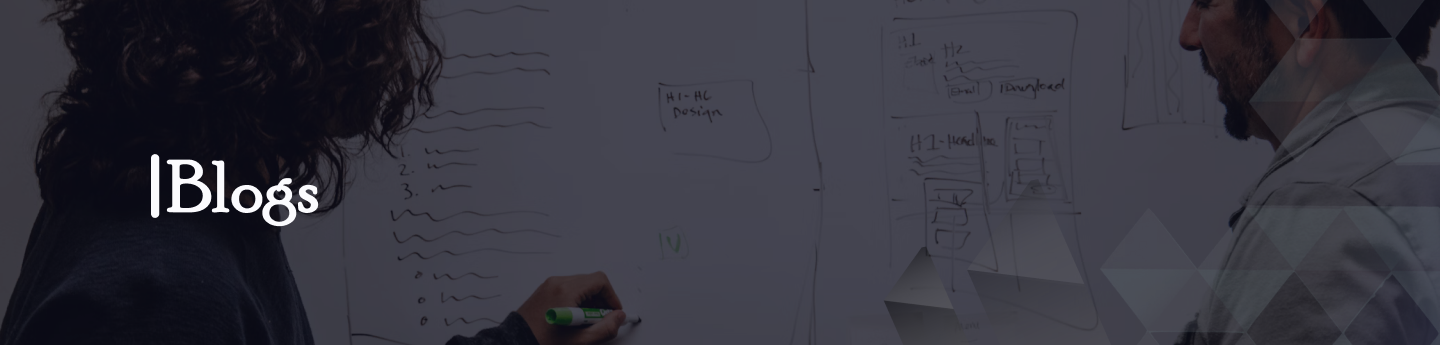
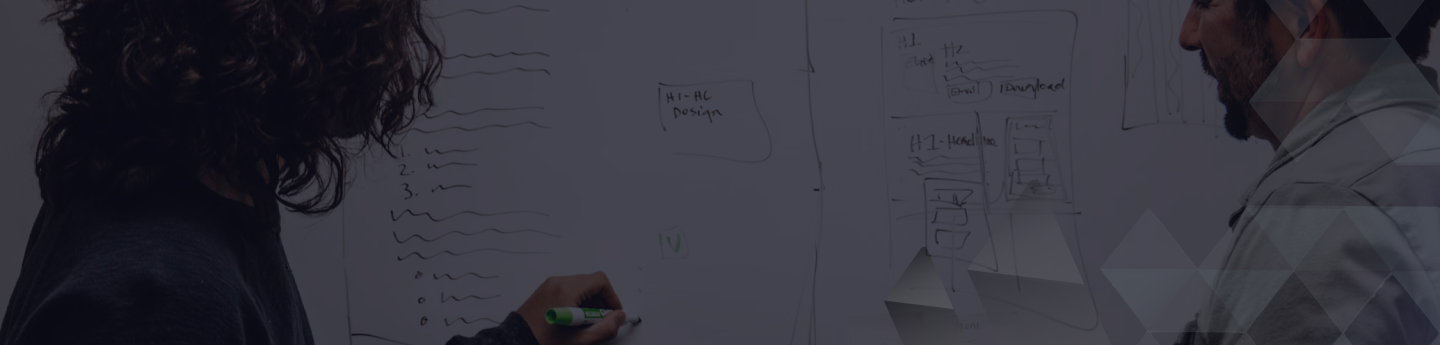
changes

Changed region(s): [[0.0938, 0.4348, 0.2188, 0.6667]]

diff --git a/src/Components/AllBlogs/AllBlogs.jsx b/src/Components/AllBlogs/AllBlogs.jsx
@@ -1,5 +1,6 @@
 import React from 'react';
 import './AllBlogs.css';
+import blogimg from '../../assets/blogimg.png'
 import frtimg1 from '../../assets/frtimg1.png';
 import DroneFails from '../DroneFails/DroneFails';
 import DesignPartner from '../../Components/DesignPartner/DesignPartner';
@@ -46,10 +47,15 @@ const blogData = [
 const AllBlogs = () => {
     return (
         <>
-            <div className="container">
-                <div className="blog_page mt-5">
+                    <div className='blogimg'>
+                        <img src={blogimg} alt="" className='imgblog'/>
+                        <div className='headingbolg'>
                     <HeadingComponent heading='Blogs'/>
-                    <div className="row mt-4 row-cols-2">
+                        </div>
+                    </div>
+            <div className="container mt-md-0 mt-4">
+                <div className="blog_page">
+                    <div className="row  row-cols-2">
                         <div className="col-sm-6">
                             {blogData.slice(0, 1).map((blog) => (
                                 <div key={blog.id} className=" border-0">

diff --git a/src/Components/AllBlogs/AllBlogs.css b/src/Components/AllBlogs/AllBlogs.css
@@ -1,10 +1,26 @@
+.blogimg{
+    position:relative;
+    width:100%;
+    object-fit:cover;
+}
+.imgblog{
+    width:100%;
+    object-fit:cover;
+
+}
+.headingbolg{
+    position:absolute;
+    top:40%;
+    color:white;
+    left:10%;
+}
 .blog_heading{
     border-left: 8px solid #3535DE;
 }
-.blog_page{
+/* .blog_page{
     position: relative;
     top: 80px;
-}
+} */
 .blogtitle{
     font-size:30px;
 }
@@ -14,8 +30,8 @@
 }
 .all_blogbtn{
     position: absolute;
-    top: 78px;
-    left:0;
+    top:59.7%;
+    left:10.8%;
     width:95px;
     height:51px;
     background-color:#3535DE;
@@ -39,10 +55,18 @@
         width:100%;
         height:200px;
     }
+    .headingbolg{
+        width:50%;
+    }
+    .imgblog{
+        width:100%;
+        height:30vh;
+    
+    }
     .all_blogbtn{
         position: absolute;
-        top: 70px;
-        left:0;
+        top: 35%;
+        left:12px;
         width:65px;
         height:40px;
         font-size:8.58px;

diff --git a/src/Components/AboutUs/About.jsx b/src/Components/AboutUs/About.jsx
@@ -17,7 +17,7 @@ const About = () => {
           <div className="container pt-0">
             <h1 className="about_heading mt-0">About Us</h1>
             <div className="aboutHead_content mt-lg-5 mt-0">
-              <Heading heading="Our Story" />
+              <Heading heading="Our Story" subheading="What we work with"/>
               <div className="aboutHead_para fontsecondry fontSecondary p-4 mt-lg-3 mt-2 col-11 ms-0 ms-md-4">
                 <p className="fontsecondry fontfamilySecondary  px-2">
                   We are a young deep tech start-up with a median age of 25,

diff --git a/src/Components/Home/Home.jsx b/src/Components/Home/Home.jsx
@@ -38,8 +38,8 @@ const Home = () => {
               </p>
 
               <div className="mt-5 d-flex Home-para-main">
-                <div className="col-md-2 ms-0 ms-md-5 col-0 col-sm-1 "></div>
-                <div className="col-sm-12 col-lg-7  whoWeare  " >
+                <div className="col-md-1 ms-0 ms-md-5 col-0 col-sm-1 "></div>
+                <div className="col-sm-12 col-lg-8  whoWeare  " >
                   <HeadingComponent heading="Who We Are" />
                   <div
                     className="We-are-a-deep fontfamilySecondary rounded"

diff --git a/src/Components/LauncherRecoverySystem/LauncherRecovery.jsx b/src/Components/LauncherRecoverySystem/LauncherRecovery.jsx
@@ -63,7 +63,7 @@ const LauncherRecovery = () => {
                 <div>
                 <a
                   href="/launch-recovery-system"
-                  className="btn btn-light px-md-5 px-1 ms-0 ms-md-4 text-white  fontfamilySecondary maincolor laubtn"
+                  className="btn btn-light px-md-4 px-1 ms-0 ms-md-4 text-white  fontfamilySecondary maincolor laubtn"
                 >
                   Explore Recovery System <i className="bi bi-arrow-right"></i>
                 </a>

diff --git a/src/Components/Design_development/Design.css b/src/Components/Design_development/Design.css
@@ -32,13 +32,13 @@
 @media only screen and (max-width: 450px) {
     .design_head{
         width:100%;
+        height:190vh;
 
     }
-    .designimg{
-        gap:160px;
-    }
+    
     .ddimg1{
-        width:50%;
+        width:100%;
+        height:70vh;
     }
     .ddimg2{
         width:70%;
@@ -53,6 +53,10 @@
         font-size:14px;
         margin-top:-20px;
     }
-    
+    .dddd{
+       left:0px; 
+       top:100%;
+        
+    }
    
 }

diff --git a/src/Components/HeadingComponent/HeadingComponent.css b/src/Components/HeadingComponent/HeadingComponent.css
@@ -7,7 +7,7 @@
     font-family:poor Richard;
 }
 .line{
-height:52px;
+height:45px;
 width:6px;
 background-color:#3535DE;
 border-radius:100px;

diff --git a/src/Components/Home/Home.css b/src/Components/Home/Home.css
@@ -1,5 +1,5 @@
 .Home-para-main{
-    margin-left:30px;
+    margin-left:100px;
 }
 .headingtext{
    
